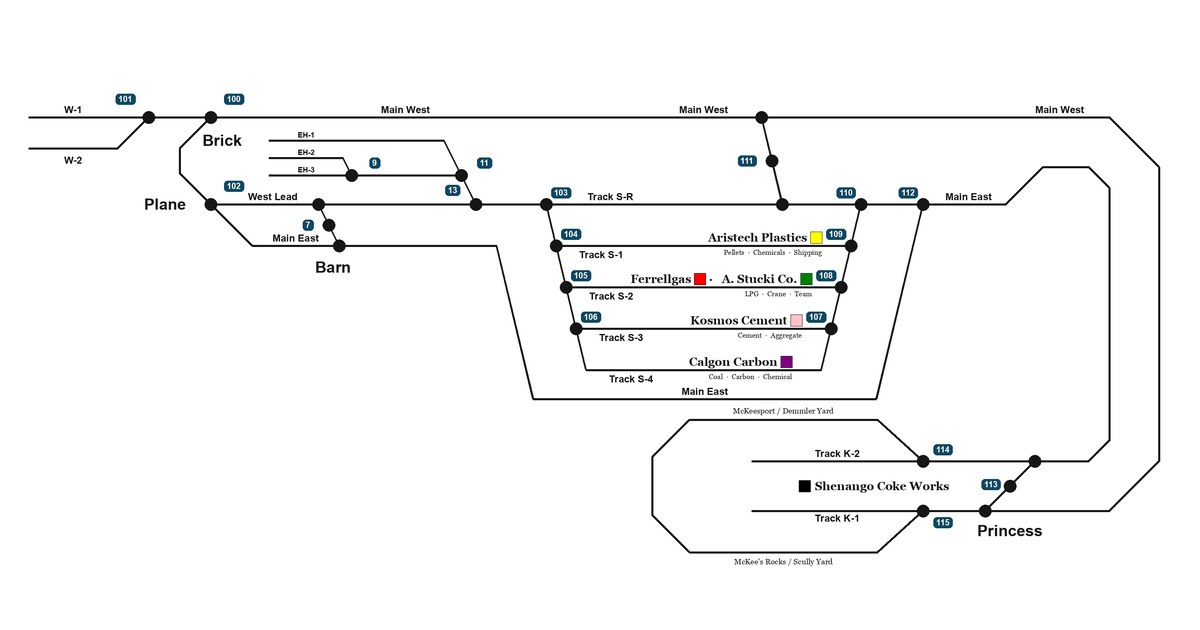
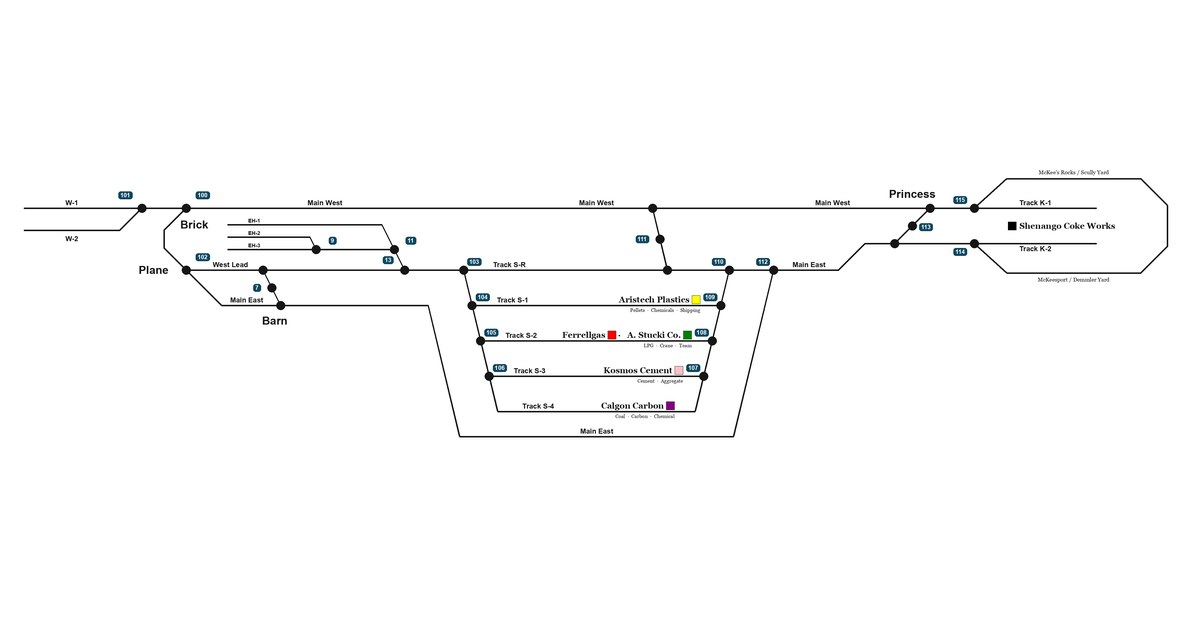
Drop the square two-tier station map, as the owner asked, and build the station maps card from the original full map instead.

diff --git a/www/scripts/make_share_cards.py b/www/scripts/make_share_cards.py
@@ -10,7 +10,7 @@ snapshots and composites; each function below is the whole recipe for one of the
 Needs Pillow and Google Chrome (headless). Pages are served from this checkout, so the
 site's own styles and fonts are used. Some cards read a picture captured or copied from
 elsewhere, kept in share-card-sources/:
-  station-map-full.png     a copy of ops/hart-ops/publications/assets/station_map_full_square.png
+  station-map-full.png     a copy of ops/hart-ops/publications/assets/station_map_full.png
   panel-frame.png          the HART Railroad panel from JMRI's web server
                            (GET http://<jmri host>:12080/frame/HART%20Railroad.png)
   track-scale-weighed.png  the owner's screenshot of the STS Track Scale after a weigh
@@ -472,8 +472,8 @@ def tt23():
 
 
 def station_maps():
-    """crew-maps: the full station map, two-tier version, whole, on white (used by the station maps index
-    and every map page). The source is a copy of ops/hart-ops/publications/assets/station_map_full_square.png;
+    """crew-maps: the full station map, whole, on white (used by the station maps index
+    and every map page). The source is a copy of ops/hart-ops/publications/assets/station_map_full.png;
     copy it again to refresh."""
     from PIL import Image
 
